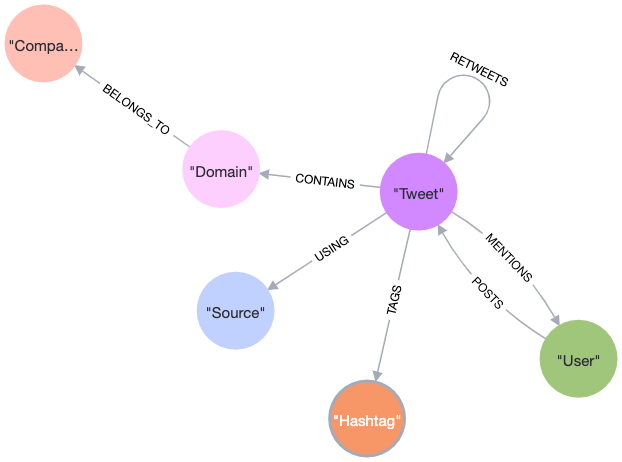
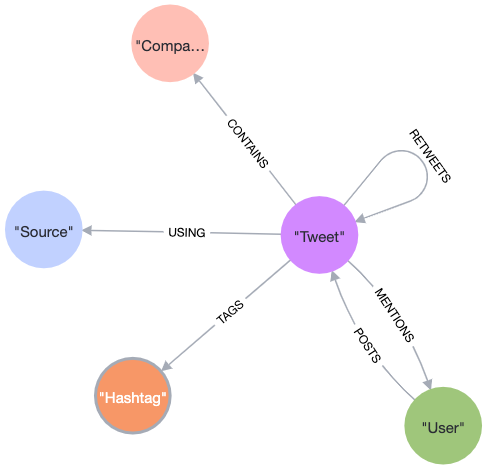
update answer to part 3

diff --git a/README.md b/README.md
@@ -1,11 +1,19 @@
-## Data Structure
-- Link - twitter_entities.urls
-- Source - generator
-- Hashtags - twitter_entities.hashtags
-- User (POSTS) - actor
-- User (Mentions) - twitter_entities.user_mentions
+Nottachat Kaewgard
 
-# PART 1
+Student ID: 47369833
+
+Macquarie University
+
+# PART 1. Initial Graph Data Model
+
+## Data Structure
+
+Mapping Graph Data's Node to JSON attributes
+- Link - twitter_entities.urls[]
+- Source - generator
+- Hashtags - twitter_entities.hashtags[]
+- User (POSTS) - actor
+- User (Mentions) - twitter_entities.user_mentions[]
 
 ## Import Tweets
 
@@ -286,17 +294,37 @@ To improve the data model for answering such question, the following modificatio
 
 By implementing this modification, it is more efficient to answer questions related to specific domains because it allows direct traversal of relationship between Tweet nodes and Domain nodes without having to compare part of URL string in the expanded_url property.
 
+![data-model-problem-d](images/part-3-problem-a.png)
+
+### Domain Node
+
+| Property | Value               |
+|----------|---------------------|
+| name     | "realestate.com.au" |
+
+### CONTAINS Relationship
+
+| Property     | Value                      |
+|--------------|----------------------------|
+| display_url  | "realestate.com.au"        |
+| expanded_url | "http://realestate.com.au" |
+| url          | "https://t.co/U1itzJzgpZ"  |
+
 Originally, to find the top 5 users posting links from realestate.com.au, the cypher will be like this
 ```
 MATCH (u:User)-[p:POSTS]->(t:Tweet)-[c:CONTAINS]->(l:Link) 
 WHERE l.expanded_url CONTAINS "realestate.com.au" 
-RETURN u.username as username, count(distinct t) as number_of_posts  ;
+RETURN u.username as username, count(distinct t) as number_of_posts
+ORDER BY number_of_posts DESC
+LIMIT 5;
 ```
 
 An updated cypher with a direct traversal of relationship between User, Tweet and Domain nodes
 ```
 MATCH (u:User)-[p:POSTS]->(t:Tweet)-[c:CONTAINS]->(d:Domain {name: "realestate.com.au"}) 
-RETURN u.username as username, count(distinct t) as number_of_posts  ;
+RETURN u.username as username, count(distinct t) as number_of_posts 
+ORDER BY number_of_posts DESC
+LIMIT 5;
 ```
 
 ## Problem B
@@ -305,7 +333,7 @@ RETURN u.username as username, count(distinct t) as number_of_posts  ;
 
 ### Create Domain nodes and relationships to Tweet nodes. 
 
-The script use apoc.data.url() to extract domain name from the URLs.
+The script uses apoc.data.url() to extract domain name from the URLs.
 ```
 MATCH (tweet:Tweet)-[:CONTAINS]->(link:Link) 
 WITH *, apoc.data.url(link.expanded_url) as url 
@@ -323,8 +351,10 @@ MATCH (link:Link) DETACH DELETE link;
 
 ## Problem C
 
+*Using elements of your extended data model, answer the following question with a Cypher query. Which user(s) post the most links from linkedin, that is links from the domain "www.linkedin.com" or "lnkd.in"*
 ```
-MATCH (u:User)-[p:POSTS]->(t:Tweet)-[c:CONTAINS]->(d:Domain) WHERE d.text = "www.linkedin.com" OR d.text = "lnkd.in" 
+MATCH (u:User)-[p:POSTS]->(t:Tweet)-[c:CONTAINS]->(d:Domain) 
+WHERE d.name = "www.linkedin.com" OR d.name = "lnkd.in" 
 WITH u.username as username, count(distinct t) as num_posts
 RETURN collect(username) as user_names, num_posts
 ORDER BY num_posts DESC LIMIT 1;
@@ -332,4 +362,32 @@ ORDER BY num_posts DESC LIMIT 1;
 
 ## Problem D
 
+*In part C, we can see that an organisation might have multiple domains associated with it. Can you design a model to also allow for this so the query in Part C could be just focused on the company linkedin itself. We would also like to able to use the graph to analyse these links by industry, extend the model again to allow for this.*
+
+To accommodate multiple domains associated with a company and to facilitate focused queries on a specific company like LikedIn, as well as enable link analysis by industry, the model is purposed with the follwoing model enhancements:
+
+1. Introduce Company nodes: Create a separate node for each unique company (e.g. LinkIn). Each Company node should store company essential properties such as its name and industry.
+
+2. Relationship between Company and Tweet: Establish a relationship named "CONTAINS" between Company nodes and Tweet nodes to indicate that a Tweet contains a link from a specific Company. The relationship should store  domain and expanded URLs properties.
+
+By implementing these modifications, it is more efficient to answer questions related to specific company or industry because it allows direct traversal of relationship between Tweet nodes and Company nodes. Additionally, we retrain important information such as domain names and expanded URLs within the relationship properties, which will facilitate future link analysis based on specific URLs.
+
+
 ![data-model-problem-d](images/part-3-problem-d.png)
+
+### Company Node
+
+| Property | Value          |
+|----------|----------------|
+| name     | "LinkedIn"     |
+| industry | "Social Media" |
+
+
+## CONTAINS Relationship
+
+| Property     | Value                     |
+|--------------|---------------------------|
+| domain       | "lnkd.in"                 |
+| display_url  | "lnkd.in/bNS5EUW"         |
+| expanded_url | "https://lnkd.in/bNS5EUW" |
+| url          | "https://t.co/jB2No9qJWJ" |
